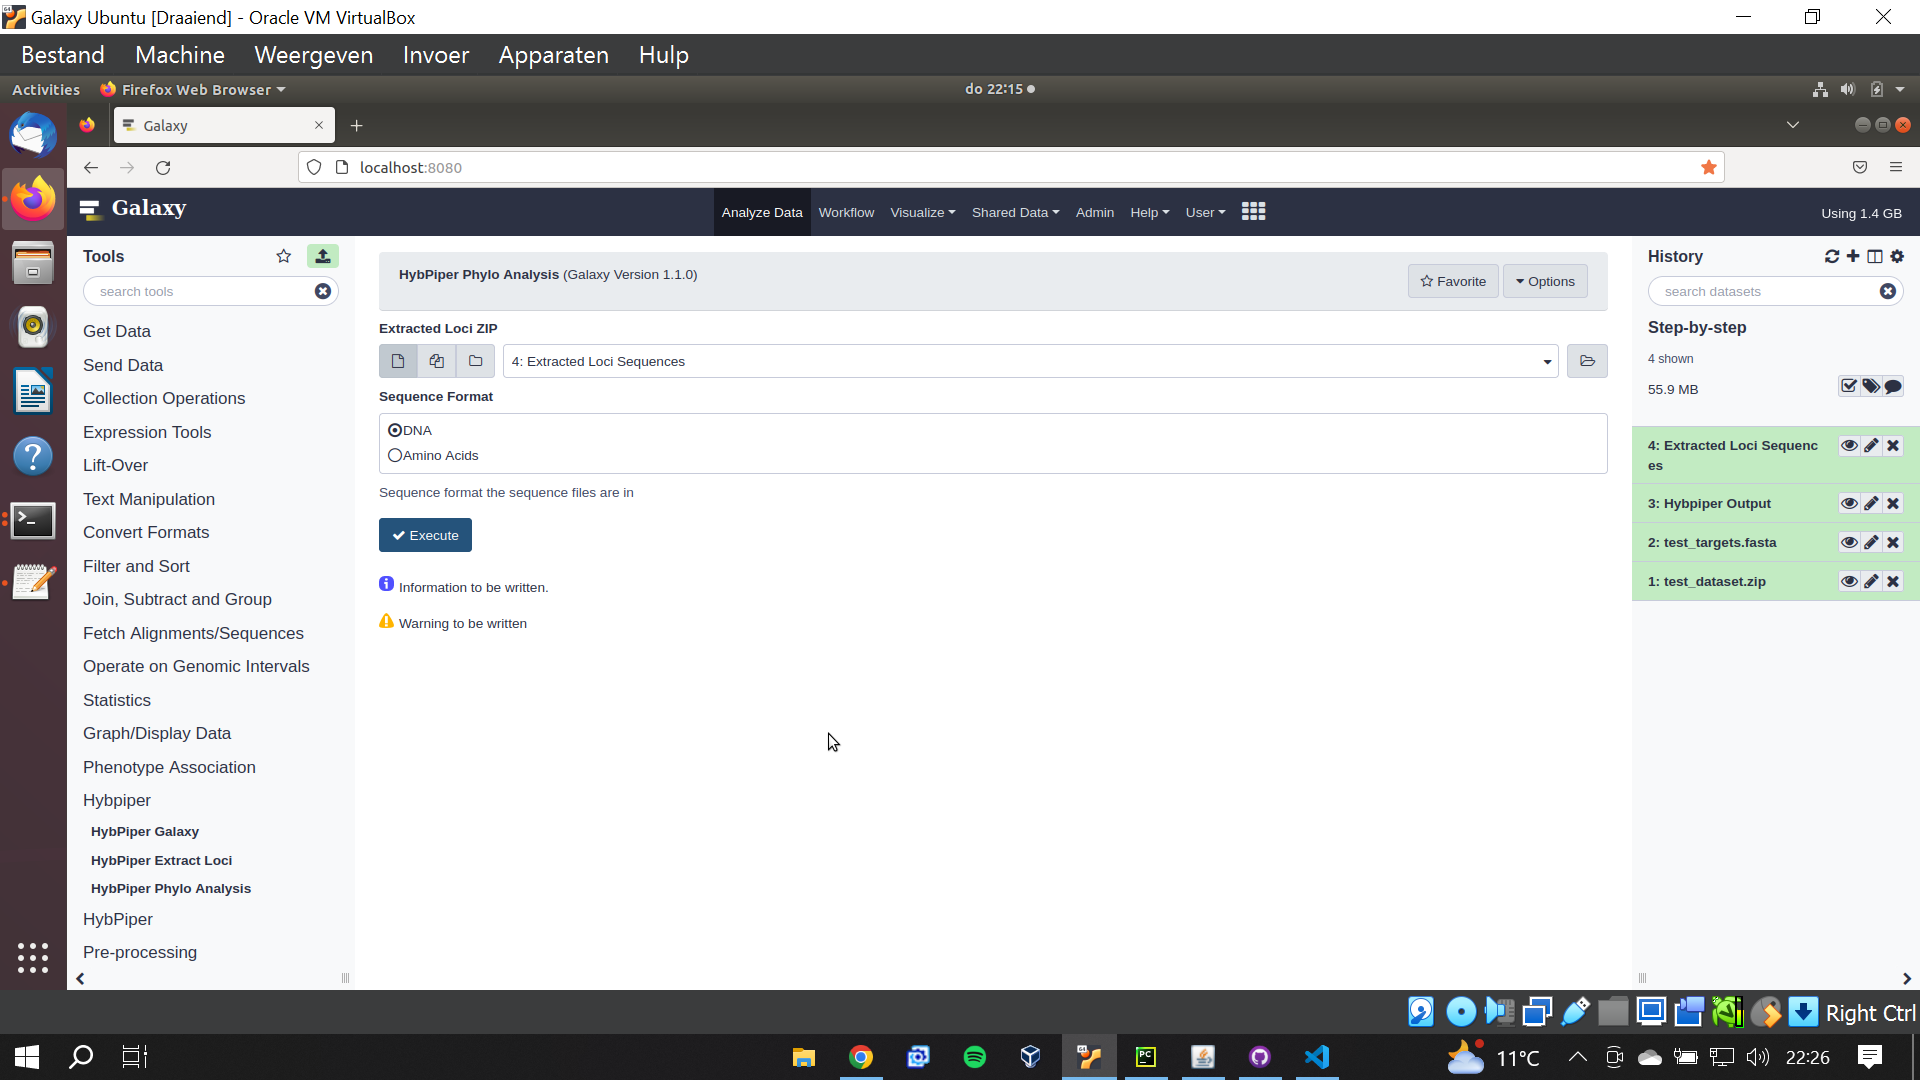
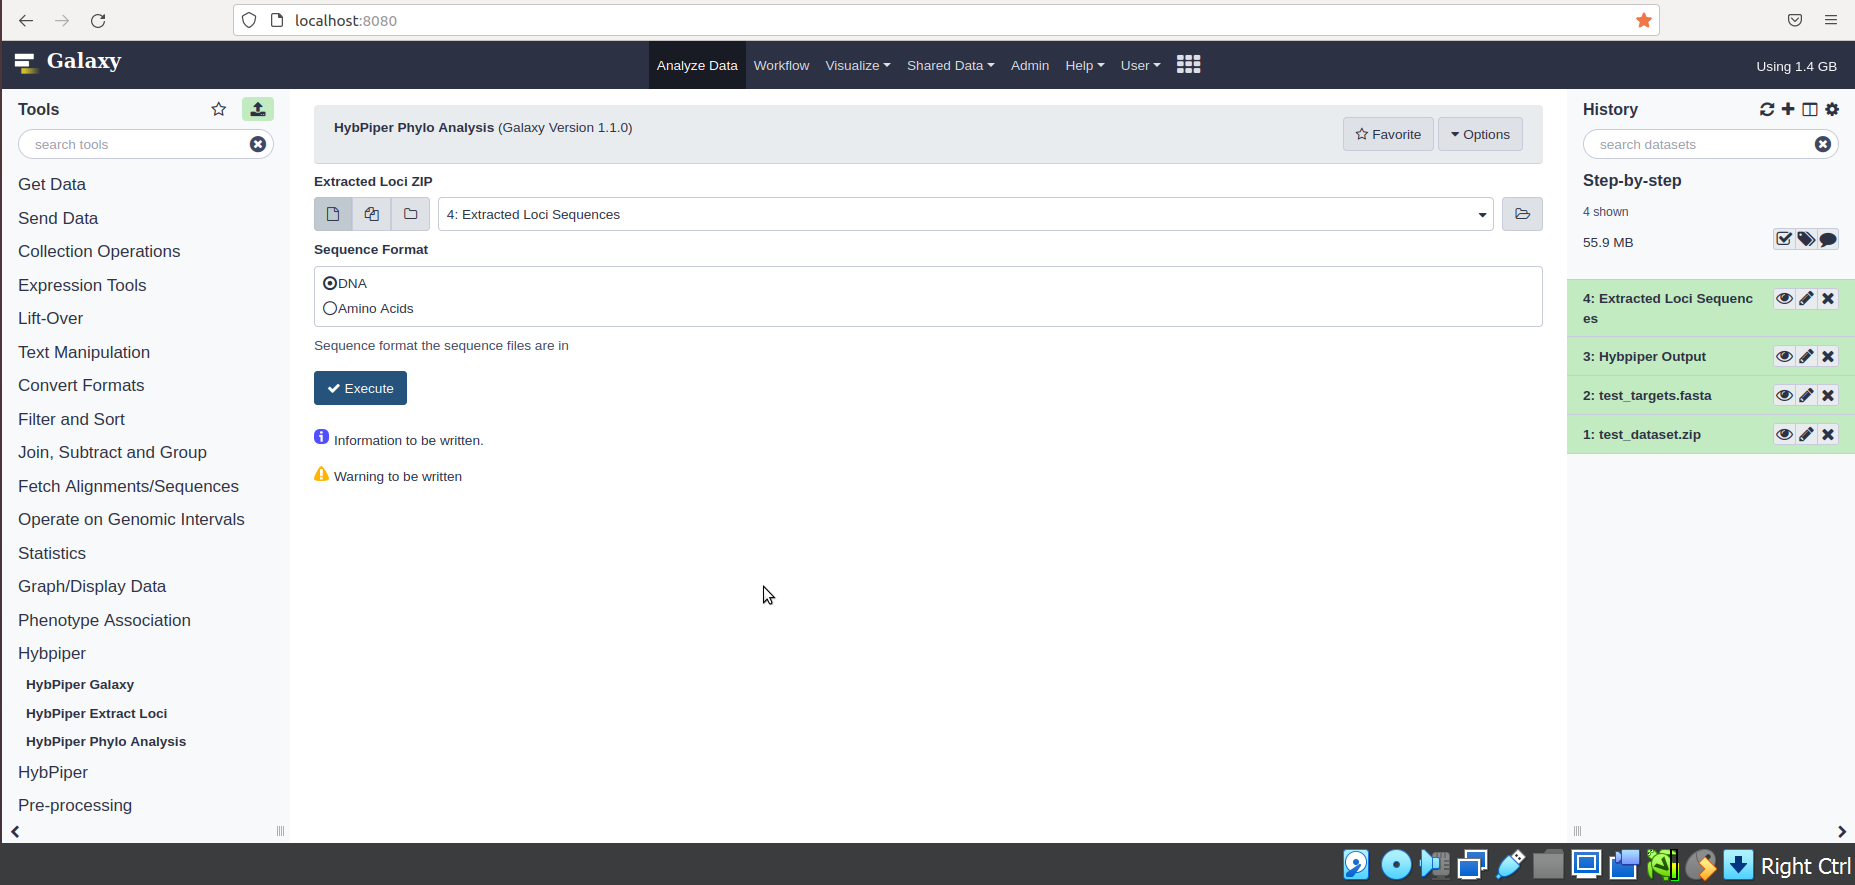
Updated images to be cropped and be more clear
Updated images to be cropped and be more clear

Changed region(s): [[0.0, 0.0, 1.0, 1.0]]

diff --git a/README.md b/README.md
@@ -68,4 +68,97 @@ this ideal end state. The repository is inspired by the following prior art:
 # Running the HybPiper Tools
 ## Step-by-step Guide
 
-Coming soon!
+In this tutorial we will perform a hyb-seq analysis in Galaxy with the tools on this GitHub repository. Before you start, make sure you have installed each tool in your Galaxy instance as described in their seperate README.md files.
+You can download the dataset and target file in this tutorial from HERE, this test dataset is derived from the original HybPiper tutorial [here](https://github.com/mossmatters/HybPiper/wiki/Tutorial).
+
+### Step 1
+First off we must load in data to do so, click on the small icon in the top left.
+
+![Step 1](https://github.com/naturalis/galaxy-pipeline-hybseq/blob/main/images/Tutorial%20Images/Step%201.png)
+
+### Step 2, 3 and 4
+Then upload your ZIP file with the paired FASTQ files and the FASTA file with the targets By pressing the 'Choose local file' button, or fetching data from a dedicated repository. In this case, we do the former.
+Then specify the format of each file manually (auto-detect often has issues with ZIP files) and then press start.
+
+![Step 2](https://github.com/naturalis/galaxy-pipeline-hybseq/blob/main/images/Tutorial%20Images/Step%202.png)
+
+Once the files have uploaded close the upload window, the files should have appeared on the history on the right and be displayed in green.
+
+![Step 3](https://github.com/naturalis/galaxy-pipeline-hybseq/blob/main/images/Tutorial%20Images/Step%203.png)
+
+![Step 4](https://github.com/naturalis/galaxy-pipeline-hybseq/blob/main/images/Tutorial%20Images/Step%204.png)
+
+### Step 5
+
+Now it is time to run the first tool, namely the HybPiper Galaxy tool, which will map the sequences in the FASTQ files to the target sequences in the FASTA file in order to output enriched marker sequences sorted by locus.
+
+Here a small list of the different settings one can change in this tool and what they mean:
+
+**Read Files:** The ZIP file containing the FASTQ read files. Will be used as input for the tool.
+
+**Target file:** The Fasta file containing the targets. Will be used as input for the tool.
+
+**Squence Format:** The type of sequences the input files are in, has the option for Amino Acids and DNA sequences.
+
+**Mapping Method** The type of mapping algorithm to use for the mapping of the sequences to the targets. The choice is between BWA and DIAMOND, with a default option, to run HybPiper without any mapping specifications.
+
+**Run Intronerate:** Here the user can specify whether they want to run intronerate to recover the supercontigs with introns. 
+
+**Generate Heatmap:** This option is non-functional and does not do anything, so can be ignored. It is a remnant of a planned feature that would have been implemented, but wasn't due to time constraints.
+
+**Timeout percentage:** With this option the user can specify a number x. During the HybPiper run, jobs taking too long (X percent longer than average) will be killed. This option is for large datasets and can be used if jobs get stuck a lot. Entering a value of '0' (zero) will run HybPiper without a timeout.
+ 
+![Step 5](https://github.com/naturalis/galaxy-pipeline-hybseq/blob/main/images/Tutorial%20Images/Step%205.png)
+
+### Step 6
+
+For our example, our data are DNA sequences, which we will map using BWA, while also running intronerate because it is nice to have. Because this tutorial dataset is small, we won't specify a number for the timeout option.
+
+Once all the settings are the way they are supposed to be for your data/project, click the 'Execute' button. This will then run the HybPiper tool, which will take a little bit to run. 
+The larger your dataset, the longer it will take. 
+
+![Step 6](https://github.com/naturalis/galaxy-pipeline-hybseq/blob/main/images/Tutorial%20Images/Step%206.png)
+
+### Step 7 and 8
+
+While the tool/job is running, it will have a loading bar and remain an orange color. Once the tool has finished it will change its color to green to indicate this.
+
+![Step 7](https://github.com/naturalis/galaxy-pipeline-hybseq/blob/main/images/Tutorial%20Images/Step%207.png)
+
+![Step 8](https://github.com/naturalis/galaxy-pipeline-hybseq/blob/main/images/Tutorial%20Images/Step%208.png)
+
+You can download the HybPiper output ZIP archive by clicking on the Hybpiper Output variable and pressing the small download button, however, we are going to use two more tools to easily process the enriched marker sequences HybPiper generated. 
+
+### Step 9
+
+The files that the HybPiper tool generated are each in their own subdirectories. With a few hundred sequences, copying and pasting them manually to a new folder to use in analyses would take a lot of time. In order to automate this process, we have the HybPiper Extract Loci tool.
+
+Just like the previous tool, we can specify an input ZIP file, for which we will enter the HybPiper output as the input for this tool. 
+
+We can specify which type of files generated by HybPiper we want to sort by locus by using the **File type** option. We can choose between 'FNA', for DNA sequence files; 'FAA' for amino acid sequence files, and 'Intron sequences' for the files generated by intronerate (if it was run in the HybPiper tool steps). 
+
+In our case, we want FNA files so we select that and press execute again.
+
+![Step 9](https://github.com/naturalis/galaxy-pipeline-hybseq/blob/main/images/Tutorial%20Images/Step%209.png)
+
+### Step 10
+
+Once the extract loci tool has finished, we have 
+
+![Step 10](https://github.com/naturalis/galaxy-pipeline-hybseq/blob/main/images/Tutorial%20Images/Step%2010.png)
+
+### Step 11
+![Step 11](https://github.com/naturalis/galaxy-pipeline-hybseq/blob/main/images/Tutorial%20Images/Step%2011.png)
+
+### Step 12
+![Step 12](https://github.com/naturalis/galaxy-pipeline-hybseq/blob/main/images/Tutorial%20Images/Step%2012.png)
+
+### Step 13
+![Step 13](https://github.com/naturalis/galaxy-pipeline-hybseq/blob/main/images/Tutorial%20Images/Step%2013.png)
+
+### Step 14
+![Step 14](https://github.com/naturalis/galaxy-pipeline-hybseq/blob/main/images/Tutorial%20Images/Step%2014.png)
+
+### Step 15
+![Step 15](https://github.com/naturalis/galaxy-pipeline-hybseq/blob/main/images/Tutorial%20Images/Step%2015.png)
+
